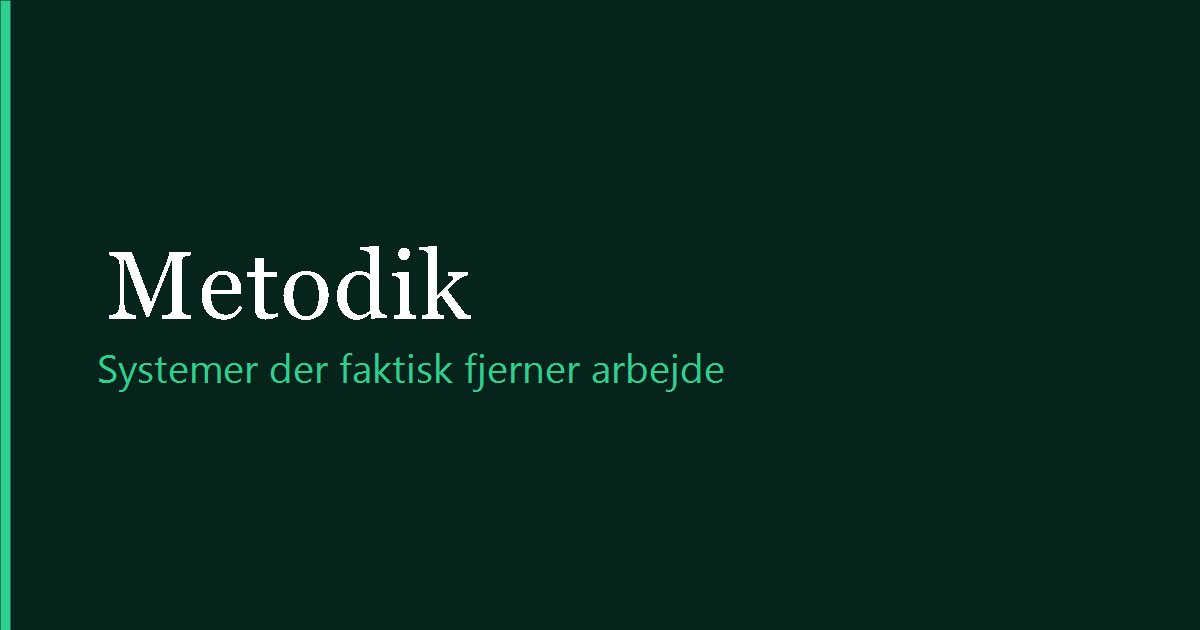
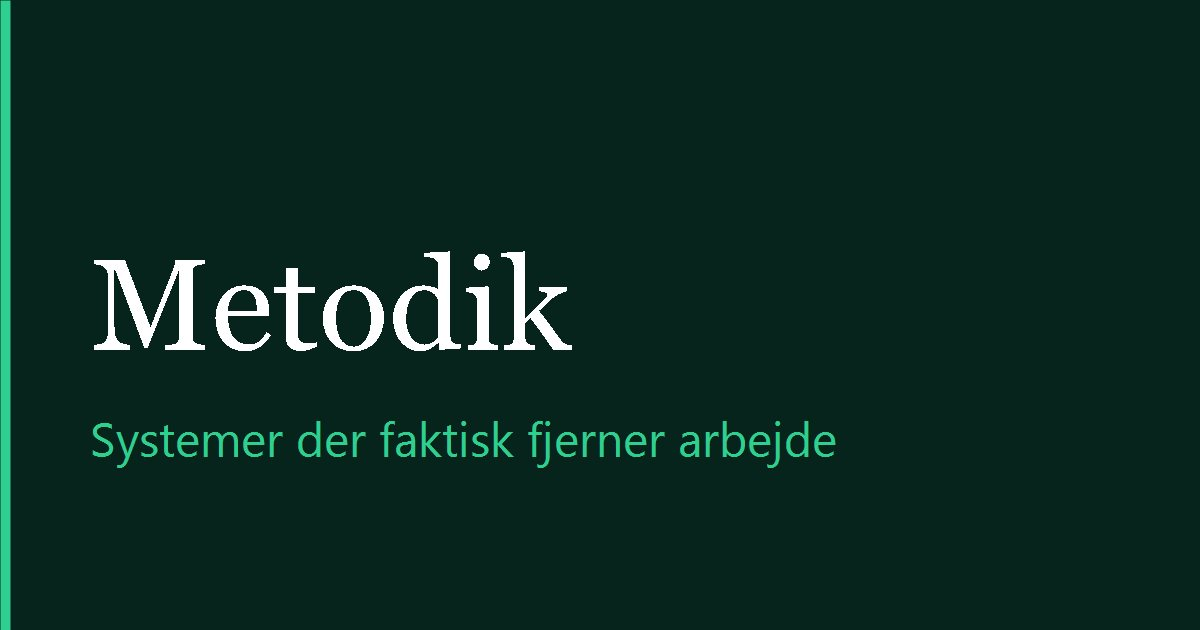
Opdater hovednavigation, og-image og oprydning
- Topmenu på alle 21 sider: Løsninger, Virksomheder, Kommuner,
  Artikler, Om, Kontakt. Cases fjernet fra topmenuen.
- Footer: Cases og Virksomheder tilføjet (Cases var ikke i footeren
  i forvejen; Virksomheder lige før Kommuner som ønsket).
- Aktiv-menupunkt ikke tilføjet — der findes endnu ikke en
  .active/aria-current-mekanisme i style.css at hægte den på.
- og-image.jpg gendannet: "Metodik" fylder nu præcis 40% af bredden
  (480px), taglinen er 48px. Samme farver som før.
- jonas.png er IKKE slettet: den bruges ikke af nogen HTML-side mere,
  men er kildefilen tools/optimize-jonas-photo.ps1 læser for at
  generere den optimerede jonas.jpg. TODO-kommentaren om jonas.webp
  i index.html er fjernet.

Changed region(s): [[0.0617, 0.3921, 0.6167, 0.6333], [0.0617, 0.6635, 0.7092, 0.754]]

diff --git a/index.html b/index.html
@@ -78,9 +78,9 @@ height="0" width="0" style="display:none;visibility:hidden"></iframe></noscript>
   <a href="/" class="nav-logo">Metodik</a>
   <ul class="nav-links">
     <li><a href="/losninger/">Løsninger</a></li>
-    <li><a href="/cases/">Cases</a></li>
-    <li><a href="/artikler/">Artikler</a></li>
+    <li><a href="/virksomheder.html">Virksomheder</a></li>
     <li><a href="/kommuner.html">Kommuner</a></li>
+    <li><a href="/artikler/">Artikler</a></li>
     <li><a href="/om.html">Om</a></li>
     <li><a href="/kontakt.html" class="nav-cta">Kontakt</a></li>
   </ul>
@@ -102,7 +102,6 @@ height="0" width="0" style="display:none;visibility:hidden"></iframe></noscript>
     </div>
   </div>
   <div class="hero-right">
-    <!-- TODO: tilføj <source srcset="/assets/jonas.webp" type="image/webp"> her, når en rigtig WebP-fil er genereret (ingen WebP-encoder tilgængelig i dette miljø) -->
     <picture>
       <img src="/assets/jonas.jpg" alt="Jonas Mandahl Pedersen, founder af Metodik" class="hero-photo" id="heroPhoto" width="900" height="1200" fetchpriority="high">
     </picture>
@@ -270,6 +269,8 @@ height="0" width="0" style="display:none;visibility:hidden"></iframe></noscript>
   <span>© 2026 Metodik · CVR 21550094</span>
   <div style="display:flex;gap:28px;">
     <a href="/losninger/">Løsninger</a>
+    <a href="/cases/">Cases</a>
+    <a href="/virksomheder.html">Virksomheder</a>
     <a href="/kommuner.html">Kommuner</a>
     <a href="/artikler/">Artikler</a>
     <a href="/om.html">Om</a>

diff --git a/kommuner.html b/kommuner.html
@@ -211,9 +211,9 @@ height="0" width="0" style="display:none;visibility:hidden"></iframe></noscript>
   <a href="/" class="nav-logo">Metodik</a>
   <ul class="nav-links">
     <li><a href="/losninger/">Løsninger</a></li>
-    <li><a href="/cases/">Cases</a></li>
-    <li><a href="/artikler/">Artikler</a></li>
+    <li><a href="/virksomheder.html">Virksomheder</a></li>
     <li><a href="/kommuner.html">Kommuner</a></li>
+    <li><a href="/artikler/">Artikler</a></li>
     <li><a href="/om.html">Om</a></li>
     <li><a href="/kontakt.html" class="nav-cta">Kontakt</a></li>
   </ul>
@@ -522,6 +522,8 @@ height="0" width="0" style="display:none;visibility:hidden"></iframe></noscript>
   <span>© 2026 Metodik · CVR 21550094</span>
   <div style="display:flex;flex-wrap:wrap;gap:12px 28px;">
     <a href="/losninger/">Løsninger</a>
+    <a href="/cases/">Cases</a>
+    <a href="/virksomheder.html">Virksomheder</a>
     <a href="/kommuner.html">Kommuner</a>
     <a href="/artikler/">Artikler</a>
     <a href="/om.html">Om</a>

diff --git a/virksomheder.html b/virksomheder.html
@@ -211,9 +211,9 @@ height="0" width="0" style="display:none;visibility:hidden"></iframe></noscript>
   <a href="/" class="nav-logo">Metodik</a>
   <ul class="nav-links">
     <li><a href="/losninger/">Løsninger</a></li>
-    <li><a href="/cases/">Cases</a></li>
-    <li><a href="/artikler/">Artikler</a></li>
+    <li><a href="/virksomheder.html">Virksomheder</a></li>
     <li><a href="/kommuner.html">Kommuner</a></li>
+    <li><a href="/artikler/">Artikler</a></li>
     <li><a href="/om.html">Om</a></li>
     <li><a href="/kontakt.html" class="nav-cta">Kontakt</a></li>
   </ul>
@@ -522,6 +522,8 @@ height="0" width="0" style="display:none;visibility:hidden"></iframe></noscript>
   <span>© 2026 Metodik · CVR 21550094</span>
   <div style="display:flex;flex-wrap:wrap;gap:12px 28px;">
     <a href="/losninger/">Løsninger</a>
+    <a href="/cases/">Cases</a>
+    <a href="/virksomheder.html">Virksomheder</a>
     <a href="/kommuner.html">Kommuner</a>
     <a href="/artikler/">Artikler</a>
     <a href="/om.html">Om</a>

diff --git a/cases/fra-excel-til-websystem.html b/cases/fra-excel-til-websystem.html
@@ -100,9 +100,9 @@ height="0" width="0" style="display:none;visibility:hidden"></iframe></noscript>
   <a href="/" class="nav-logo">Metodik</a>
   <ul class="nav-links">
     <li><a href="/losninger/">Løsninger</a></li>
-    <li><a href="/cases/">Cases</a></li>
-    <li><a href="/artikler/">Artikler</a></li>
+    <li><a href="/virksomheder.html">Virksomheder</a></li>
     <li><a href="/kommuner.html">Kommuner</a></li>
+    <li><a href="/artikler/">Artikler</a></li>
     <li><a href="/om.html">Om</a></li>
     <li><a href="/kontakt.html" class="nav-cta">Kontakt</a></li>
   </ul>
@@ -233,6 +233,8 @@ height="0" width="0" style="display:none;visibility:hidden"></iframe></noscript>
   <span>© 2026 Metodik · CVR 21550094</span>
   <div style="display:flex;gap:28px;">
     <a href="/losninger/">Løsninger</a>
+    <a href="/cases/">Cases</a>
+    <a href="/virksomheder.html">Virksomheder</a>
     <a href="/kommuner.html">Kommuner</a>
     <a href="/artikler/">Artikler</a>
     <a href="/om.html">Om</a>

diff --git a/losninger/ai-automatisering.html b/losninger/ai-automatisering.html
@@ -226,9 +226,9 @@ height="0" width="0" style="display:none;visibility:hidden"></iframe></noscript>
   <a href="/" class="nav-logo">Metodik</a>
   <ul class="nav-links">
     <li><a href="/losninger/">Løsninger</a></li>
-    <li><a href="/cases/">Cases</a></li>
-    <li><a href="/artikler/">Artikler</a></li>
+    <li><a href="/virksomheder.html">Virksomheder</a></li>
     <li><a href="/kommuner.html">Kommuner</a></li>
+    <li><a href="/artikler/">Artikler</a></li>
     <li><a href="/om.html">Om</a></li>
     <li><a href="/kontakt.html" class="nav-cta">Kontakt</a></li>
   </ul>
@@ -365,6 +365,8 @@ height="0" width="0" style="display:none;visibility:hidden"></iframe></noscript>
   <span>© 2026 Metodik · CVR 21550094</span>
   <div style="display:flex;gap:28px;">
     <a href="/losninger/">Løsninger</a>
+    <a href="/cases/">Cases</a>
+    <a href="/virksomheder.html">Virksomheder</a>
     <a href="/kommuner.html">Kommuner</a>
     <a href="/artikler/">Artikler</a>
     <a href="/om.html">Om</a>

diff --git a/losninger/legacy-modernisering.html b/losninger/legacy-modernisering.html
@@ -125,9 +125,9 @@ height="0" width="0" style="display:none;visibility:hidden"></iframe></noscript>
   <a href="/" class="nav-logo">Metodik</a>
   <ul class="nav-links">
     <li><a href="/losninger/">Løsninger</a></li>
-    <li><a href="/cases/">Cases</a></li>
-    <li><a href="/artikler/">Artikler</a></li>
+    <li><a href="/virksomheder.html">Virksomheder</a></li>
     <li><a href="/kommuner.html">Kommuner</a></li>
+    <li><a href="/artikler/">Artikler</a></li>
     <li><a href="/om.html">Om</a></li>
     <li><a href="/kontakt.html" class="nav-cta">Kontakt</a></li>
   </ul>
@@ -261,6 +261,8 @@ height="0" width="0" style="display:none;visibility:hidden"></iframe></noscript>
   <span>© 2026 Metodik · CVR 21550094</span>
   <div style="display:flex;gap:28px;">
     <a href="/losninger/">Løsninger</a>
+    <a href="/cases/">Cases</a>
+    <a href="/virksomheder.html">Virksomheder</a>
     <a href="/kommuner.html">Kommuner</a>
     <a href="/artikler/">Artikler</a>
     <a href="/om.html">Om</a>

diff --git a/losninger/saas-udvikling.html b/losninger/saas-udvikling.html
@@ -133,9 +133,9 @@ height="0" width="0" style="display:none;visibility:hidden"></iframe></noscript>
   <a href="/" class="nav-logo">Metodik</a>
   <ul class="nav-links">
     <li><a href="/losninger/">Løsninger</a></li>
-    <li><a href="/cases/">Cases</a></li>
-    <li><a href="/artikler/">Artikler</a></li>
+    <li><a href="/virksomheder.html">Virksomheder</a></li>
     <li><a href="/kommuner.html">Kommuner</a></li>
+    <li><a href="/artikler/">Artikler</a></li>
     <li><a href="/om.html">Om</a></li>
     <li><a href="/kontakt.html" class="nav-cta">Kontakt</a></li>
   </ul>
@@ -271,6 +271,8 @@ height="0" width="0" style="display:none;visibility:hidden"></iframe></noscript>
   <span>© 2026 Metodik · CVR 21550094</span>
   <div style="display:flex;gap:28px;">
     <a href="/losninger/">Løsninger</a>
+    <a href="/cases/">Cases</a>
+    <a href="/virksomheder.html">Virksomheder</a>
     <a href="/kommuner.html">Kommuner</a>
     <a href="/artikler/">Artikler</a>
     <a href="/om.html">Om</a>

diff --git a/cases/ai-til-support-og-backoffice.html b/cases/ai-til-support-og-backoffice.html
@@ -90,9 +90,9 @@ height="0" width="0" style="display:none;visibility:hidden"></iframe></noscript>
   <a href="/" class="nav-logo">Metodik</a>
   <ul class="nav-links">
     <li><a href="/losninger/">Løsninger</a></li>
-    <li><a href="/cases/">Cases</a></li>
-    <li><a href="/artikler/">Artikler</a></li>
+    <li><a href="/virksomheder.html">Virksomheder</a></li>
     <li><a href="/kommuner.html">Kommuner</a></li>
+    <li><a href="/artikler/">Artikler</a></li>
     <li><a href="/om.html">Om</a></li>
     <li><a href="/kontakt.html" class="nav-cta">Kontakt</a></li>
   </ul>
@@ -193,6 +193,8 @@ height="0" width="0" style="display:none;visibility:hidden"></iframe></noscript>
   <span>© 2026 Metodik · CVR 21550094</span>
   <div style="display:flex;gap:28px;">
     <a href="/losninger/">Løsninger</a>
+    <a href="/cases/">Cases</a>
+    <a href="/virksomheder.html">Virksomheder</a>
     <a href="/kommuner.html">Kommuner</a>
     <a href="/artikler/">Artikler</a>
     <a href="/om.html">Om</a>

diff --git a/cases/kundeportal-og-booking.html b/cases/kundeportal-og-booking.html
@@ -90,9 +90,9 @@ height="0" width="0" style="display:none;visibility:hidden"></iframe></noscript>
   <a href="/" class="nav-logo">Metodik</a>
   <ul class="nav-links">
     <li><a href="/losninger/">Løsninger</a></li>
-    <li><a href="/cases/">Cases</a></li>
-    <li><a href="/artikler/">Artikler</a></li>
+    <li><a href="/virksomheder.html">Virksomheder</a></li>
     <li><a href="/kommuner.html">Kommuner</a></li>
+    <li><a href="/artikler/">Artikler</a></li>
     <li><a href="/om.html">Om</a></li>
     <li><a href="/kontakt.html" class="nav-cta">Kontakt</a></li>
   </ul>
@@ -194,6 +194,8 @@ height="0" width="0" style="display:none;visibility:hidden"></iframe></noscript>
   <span>© 2026 Metodik · CVR 21550094</span>
   <div style="display:flex;gap:28px;">
     <a href="/losninger/">Løsninger</a>
+    <a href="/cases/">Cases</a>
+    <a href="/virksomheder.html">Virksomheder</a>
     <a href="/kommuner.html">Kommuner</a>
     <a href="/artikler/">Artikler</a>
     <a href="/om.html">Om</a>

diff --git a/kontakt.html b/kontakt.html
@@ -96,9 +96,9 @@ height="0" width="0" style="display:none;visibility:hidden"></iframe></noscript>
   <a href="/" class="nav-logo">Metodik</a>
   <ul class="nav-links">
     <li><a href="/losninger/">Løsninger</a></li>
-    <li><a href="/cases/">Cases</a></li>
-    <li><a href="/artikler/">Artikler</a></li>
+    <li><a href="/virksomheder.html">Virksomheder</a></li>
     <li><a href="/kommuner.html">Kommuner</a></li>
+    <li><a href="/artikler/">Artikler</a></li>
     <li><a href="/om.html">Om</a></li>
     <li><a href="/kontakt.html" class="nav-cta">Kontakt</a></li>
   </ul>
@@ -121,6 +121,8 @@ height="0" width="0" style="display:none;visibility:hidden"></iframe></noscript>
   <span>© 2026 Metodik · CVR 21550094</span>
   <div style="display:flex;gap:28px;">
     <a href="/losninger/">Løsninger</a>
+    <a href="/cases/">Cases</a>
+    <a href="/virksomheder.html">Virksomheder</a>
     <a href="/kommuner.html">Kommuner</a>
     <a href="/artikler/">Artikler</a>
     <a href="/om.html">Om</a>

diff --git a/artikler/ai-i-smaa-og-mellemstore-virksomheder.html b/artikler/ai-i-smaa-og-mellemstore-virksomheder.html
@@ -319,9 +319,9 @@ height="0" width="0" style="display:none;visibility:hidden"></iframe></noscript>
   <a href="/" class="nav-logo">Metodik</a>
   <ul class="nav-links">
     <li><a href="/losninger/">Løsninger</a></li>
-    <li><a href="/cases/">Cases</a></li>
-    <li><a href="/artikler/">Artikler</a></li>
+    <li><a href="/virksomheder.html">Virksomheder</a></li>
     <li><a href="/kommuner.html">Kommuner</a></li>
+    <li><a href="/artikler/">Artikler</a></li>
     <li><a href="/om.html">Om</a></li>
     <li><a href="/kontakt.html" class="nav-cta">Kontakt</a></li>
   </ul>
@@ -526,6 +526,8 @@ height="0" width="0" style="display:none;visibility:hidden"></iframe></noscript>
   <span>© 2026 Metodik</span>
   <div style="display:flex;gap:28px;">
     <a href="/losninger/">Løsninger</a>
+    <a href="/cases/">Cases</a>
+    <a href="/virksomheder.html">Virksomheder</a>
     <a href="/kommuner.html">Kommuner</a>
     <a href="/artikler/">Artikler</a>
     <a href="/om.html">Om</a>

diff --git a/artikler/index.html b/artikler/index.html
@@ -175,9 +175,9 @@ height="0" width="0" style="display:none;visibility:hidden"></iframe></noscript>
   <a href="/" class="nav-logo">Metodik</a>
   <ul class="nav-links">
     <li><a href="/losninger/">Løsninger</a></li>
-    <li><a href="/cases/">Cases</a></li>
-    <li><a href="/artikler/">Artikler</a></li>
+    <li><a href="/virksomheder.html">Virksomheder</a></li>
     <li><a href="/kommuner.html">Kommuner</a></li>
+    <li><a href="/artikler/">Artikler</a></li>
     <li><a href="/om.html">Om</a></li>
     <li><a href="/kontakt.html" class="nav-cta">Kontakt</a></li>
   </ul>
@@ -259,6 +259,8 @@ height="0" width="0" style="display:none;visibility:hidden"></iframe></noscript>
   <span>© 2026 Metodik</span>
   <div style="display:flex;gap:28px;">
     <a href="/losninger/">Løsninger</a>
+    <a href="/cases/">Cases</a>
+    <a href="/virksomheder.html">Virksomheder</a>
     <a href="/kommuner.html">Kommuner</a>
     <a href="/artikler/">Artikler</a>
     <a href="/om.html">Om</a>
